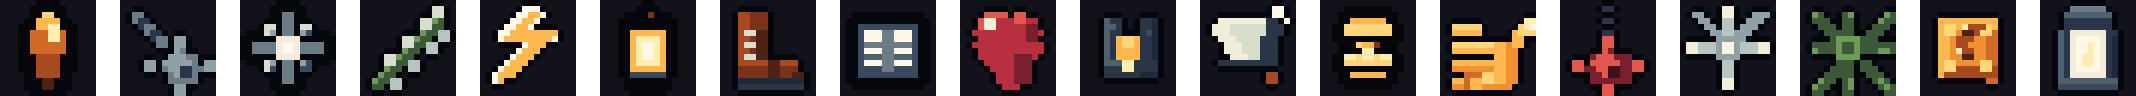
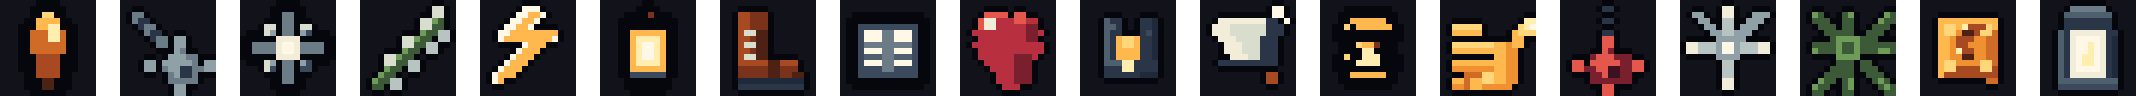
m9-art-fx-ui: Supervisor-Snapshot WIP (5 Dateien, 47 min ohne Commit)

Changed region(s): [[0.618, 0.5625, 0.6489, 0.6875], [0.618, 0.25, 0.6489, 0.375]]

diff --git a/src/gfx/gen-icons.ts b/src/gfx/gen-icons.ts
@@ -230,13 +230,13 @@ export const GEN_ICONS: Record<string, GenSprite> = {
       "....00000000....",
       "...0000000000...",
       "...00kkkkkk00...",
-      "..00llllllll00..",
-      "..00llllllll00..",
+      "..00l0kkkkkk00..",
+      "..000000000000..",
       "..000000000000..",
       "...000lkkg000...",
       "...0000mm0000...",
-      "..00mmlmmlmm00..",
-      "..00llllllll00..",
+      "..00l00mmm0000..",
+      "..0000mmmm0000..",
       "..000000000000..",
       "...00kkkkkk00...",
       "...0000000000...",
